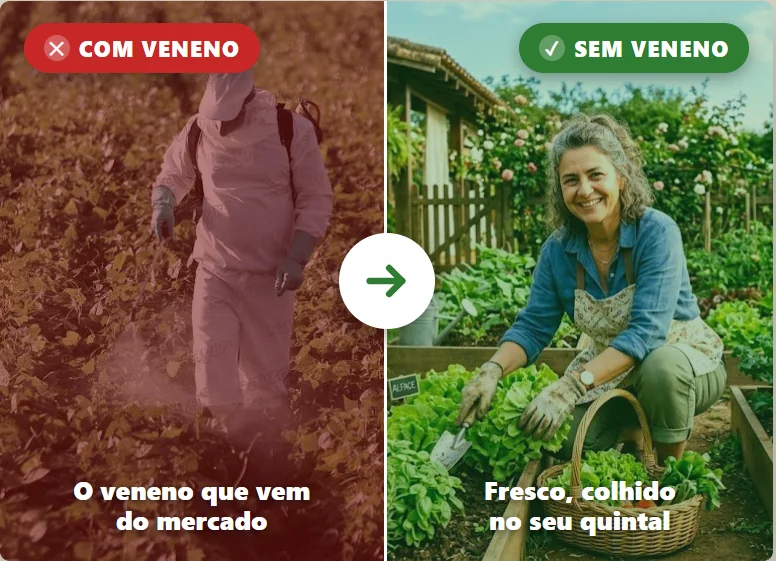
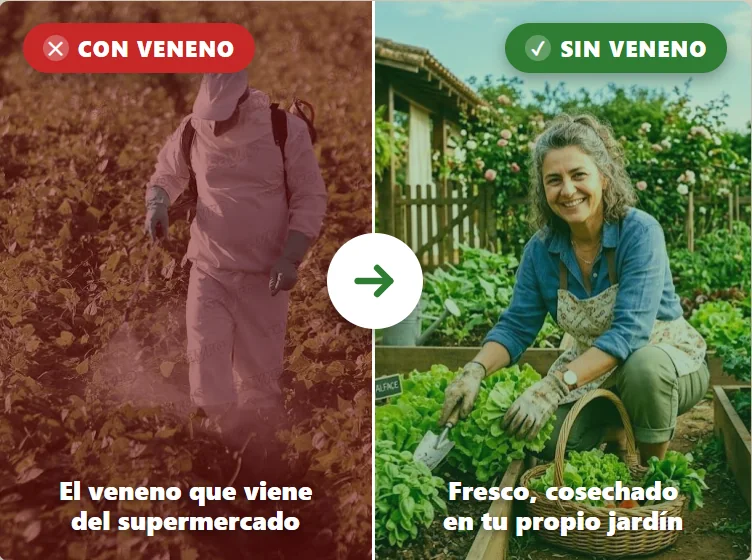
feat(huerta): imagem do hero (comparativo) em espanhol
- 'CON VENENO / SIN VENENO' em ES; PNG 1MB -> WebP 84KB (-92%)

diff --git a/huerta/index.html b/huerta/index.html
@@ -72,7 +72,7 @@
 <div class="hero-inner">
 <div class="hero-copy">
 <h1 class="hero-title">¿Sabes cuánto agrotóxico ya ingeriste este mes — sin siquiera darte cuenta?</h1>
-<img class="hero-img" src="./assets/hero-comparativo.webp" alt="Comparación: alimento con veneno del supermercado vs huerta fresca y sin veneno en casa" width="776" height="561" loading="eager" fetchpriority="high">
+<img class="hero-img" src="./assets/hero-comparativo.webp" alt="Comparación: alimento con veneno del supermercado vs huerta fresca y sin veneno en casa" width="752" height="560" loading="eager" fetchpriority="high">
 <p class="hero-sub">Aprende a armar tu propia huerta en casa, desde cero — y cosecha verdura fresca, limpia y sin veneno, aunque nunca hayas plantado nada en tu vida.</p>
 <a href="#oferta" class="btn btn-primary btn-cta pulse">QUIERO MI HUERTA EN CASA</a>
 <p class="price-badge">🌱 Desde <strong>US$ 6,90</strong> · acceso inmediato</p>
